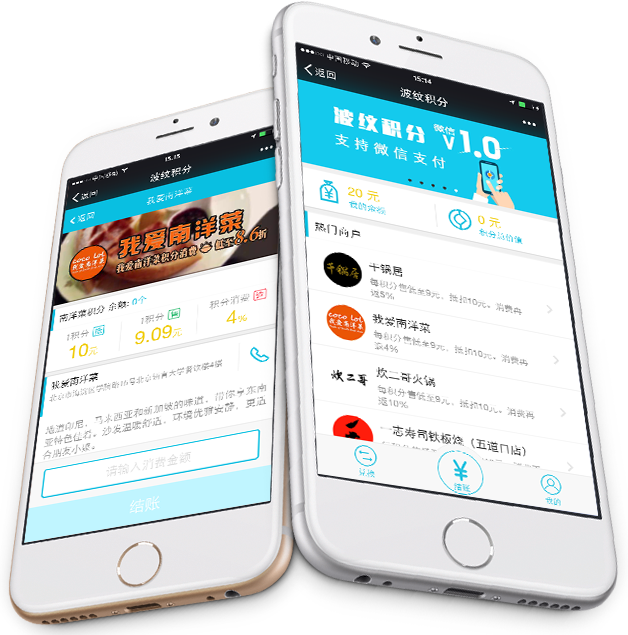
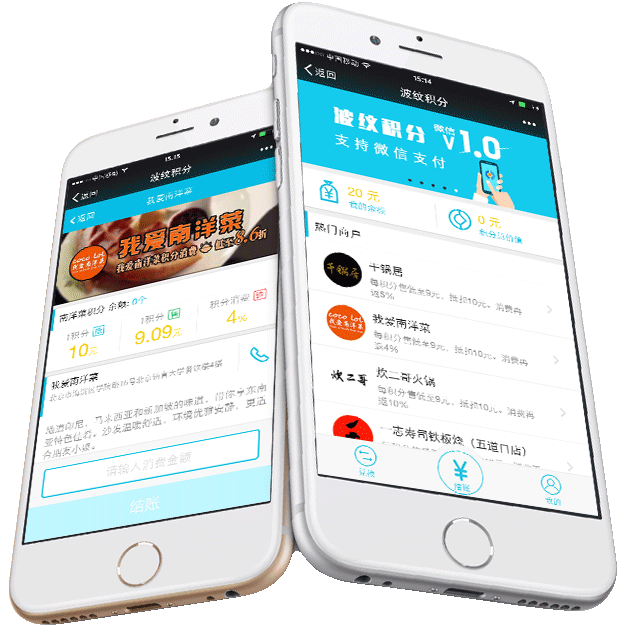
将图片压缩

diff --git a/index.html b/index.html
@@ -161,11 +161,11 @@
     <style type="text/css">
 
         #section1 #slide1{
-            background: url(./img/1_bg1.jpg) center center no-repeat;
+            background: #21bce9;
             background-size:cover;
         }
         #section1 #slide2{
-            background:url(./img/1_bg2.jpg) center center no-repeat;
+            background:#3edbb8;
             background-size:cover;
         }
         #section2 #slide5{
